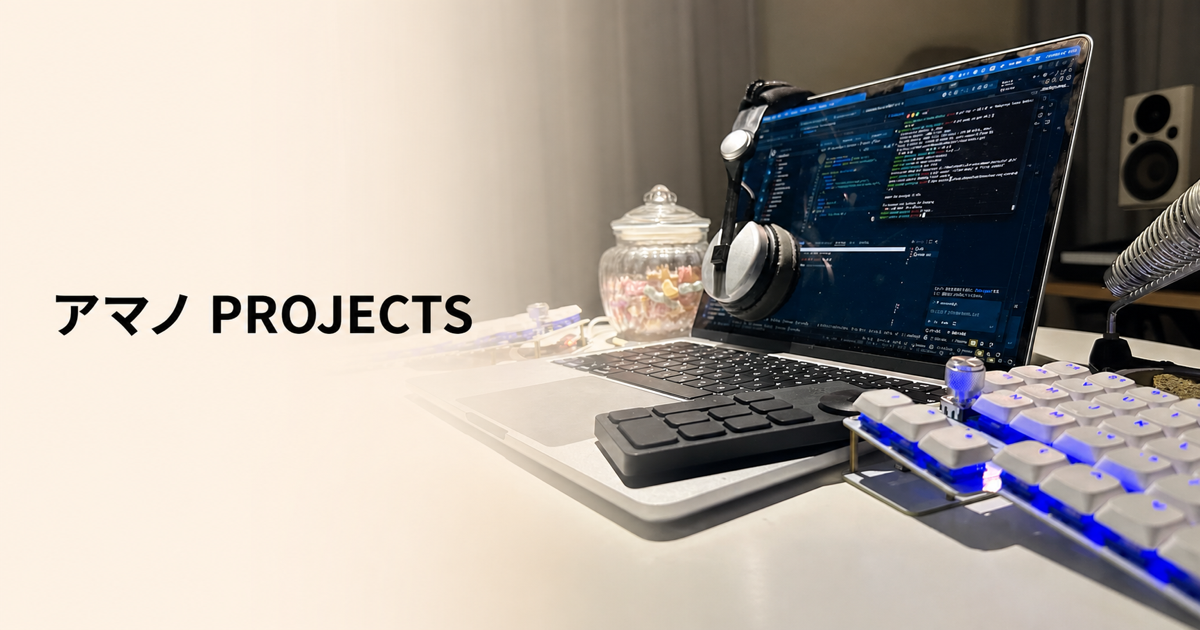
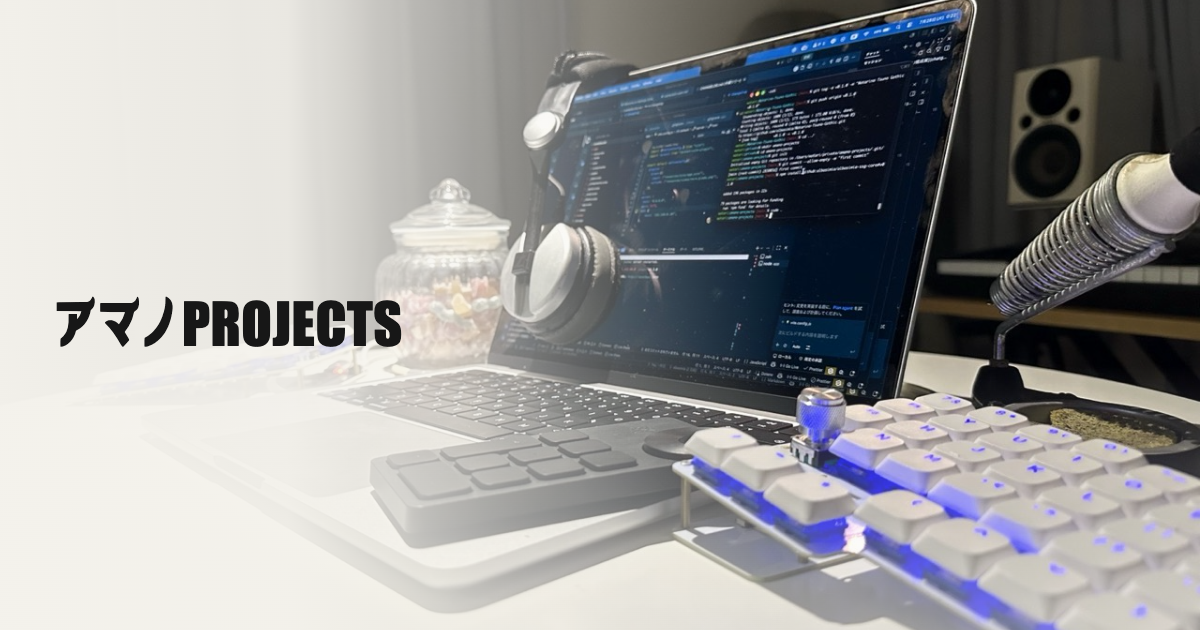
OGP、ファビコン変更。

diff --git a/src/styles/global.scss b/src/styles/global.scss
@@ -564,7 +564,7 @@ main[class] .asc-tag {
 .about-profile__body > p { max-width: 35rem; margin: 0; color: var(--color-muted); }
 .about-profile__body > p + p { margin-top: 1.5rem; }
 .about-profile__body .about-profile__statement { color: var(--color-text); font-size: clamp(1.8rem, 3.8vw, 3.2rem); font-weight: 620; line-height: 1.2; letter-spacing: -.045em; }
-.about-profile__body .asc-arrow-link { margin-top: 3rem; }
+.about-profile__links { display: flex; flex-wrap: wrap; align-items: center; gap: 1rem 2rem; margin-top: 3rem; }
 .index-page > .asc-container { padding-block: 0 var(--section-space); }
 .project-index-hero { padding-block: clamp(2.75rem, 5vw, 4.5rem); }
 .project-index-hero > .asc-container { display: grid; grid-template-columns: minmax(0, 1.1fr) minmax(18rem, .9fr); gap: clamp(2rem, 6vw, 7rem); align-items: end; }

diff --git a/src/site.ts b/src/site.ts
@@ -7,7 +7,7 @@ export const site = defineSiteConfig({
   locale: "ja",
   title: {
     default: "アマノPROJECTS",
-    separator: " — ",
+    separator: " | ",
     position: "suffix",
   },
   openGraph: {
@@ -22,7 +22,7 @@ export const site = defineSiteConfig({
     imageAlt: "アマノ PROJECTS",
   },
   favicons: [
-    { rel: "icon", href: "/og.png", type: "image/png" },
+    { rel: "icon", href: "/favicon.png", type: "image/png" },
   ],
   themeColors: [
     { color: "#f4f2ec" },

diff --git a/src/content/projects/we-are-the-makoto/index.md b/src/content/projects/we-are-the-makoto/index.md
@@ -36,7 +36,7 @@ endedAt: "2025.10"
 
 ## 発端
 
-友人の誕生日に向け、複数の友人が歌唱と制作に参加するミュージックビデオを企画しました。USA for Africaの「We Are The World」を下敷きに、参加者がそれぞれ歌手を担当し、本人の顔を使ったパペットで映像を再構成しています。
+友人の誕生日に向け、複数の友人が歌唱と制作に参加するミュージックビデオを企画しました。USA for Africaの「We Are The World」を下敷きに、参加者がそれぞれ歌手を担当し、本人の顔や使用アイコンのキャラクターをモチーフにしたパペットで映像を再構成しています。
 
 <p class="eyebrow project-prose__eyebrow">IDEAL EXPERIENCE</p>
 
@@ -51,6 +51,18 @@ endedAt: "2025.10"
 参加者ごとの歌唱パートを決め、仮歌と歌唱表現の共有資料を用意しました。音源、立ち絵、撮影、美術、編集を並行して進めるため、Google Sheetsにタスク、締め切り、成果物、登場人物、香盤、クレジットを集約しています。
 
 僕は監督として全体の判断を担い、歌割、仮歌、歌唱ディレクション、セットとパペット方式の設計、セット制作、完成音源のMIXを担当しました。立ち絵、パペット操演、カメラ、撮影補助、映像編集は参加者で分担しています。
+
+
+<p class="eyebrow project-prose__eyebrow">VOCAL DIRECTION</p>
+
+## 歌唱ディレクション
+
+本家のシンガー達の歌い方の癖や、発音の英語らしさを再現するために、歌唱指導動画を用意しました。
+
+文字だけでは伝わりにくい発音や抑揚、フレーズごとのニュアンスを実演し、参加者がそれぞれの担当パートを確認しながら収録できるようにしています。
+
+[Youtube 限定公開動画・転載禁止](https://youtu.be/d7hK1Jqte94)
+
 
 <p class="eyebrow project-prose__eyebrow">VISUAL DESIGN</p>
 
